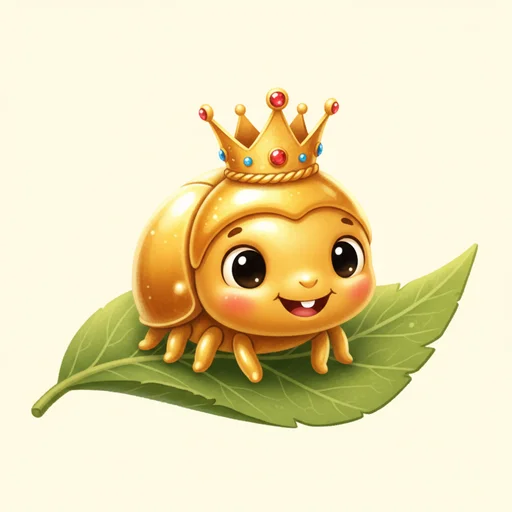
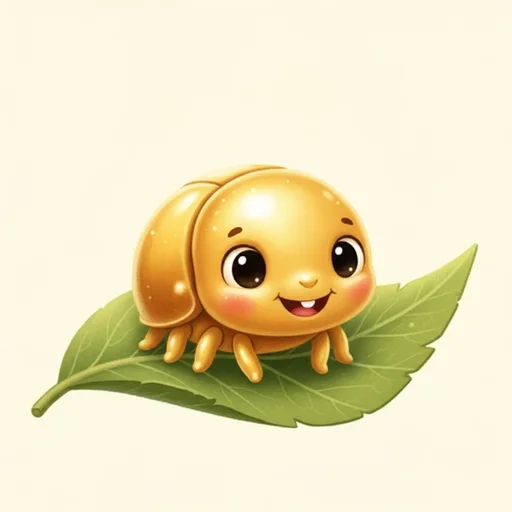
Friends cleanup: rename kraken to Squirt, remove Goldie's crown, drop Nimbus's scenery
Squirt avoids clashing with Bubbles the fish pet now that friends may become pets.
Goldie and Nimbus were edited from their existing art so they keep their look.
Re-recorded the pirate-ship friend voice line with the new name.

Claude-Session: https://claude.ai/code/session_01CUU7H22cA4EA7996G5hEr7

Changed region(s): [[0.3125, 0.1562, 0.75, 0.5312]]

diff --git a/src/data/puzzles.ts b/src/data/puzzles.ts
@@ -203,7 +203,7 @@ export const PUZZLES: Puzzle[] = [
       'One curling vine racetrack winds through every cell, from the top-left down to the bottom-right finish line of pebbles.',
       'Dewdrops, petals and pollen float across cell edges.',
     ],
-    friend: { name: 'Goldie the Golden Beetle', emoji: '🪲', image: '/puzzles/friends/bug-garden.webp', subject: 'a shiny golden beetle wearing a tiny crown, sitting on a leaf' },
+    friend: { name: 'Goldie the Golden Beetle', emoji: '🪲', image: '/puzzles/friends/bug-garden.webp', subject: 'a shiny golden beetle sitting on a leaf' },
     pieces: [
       { name: 'Bumble Ben', subject: 'a fuzzy bumblebee waving a checkered flag to start the race', emoji: '🐝' },
       { name: 'Sunny Sunflower', subject: 'a giant sunflower with a happy face leaning in to watch', emoji: '🌻' },
@@ -281,7 +281,7 @@ export const PUZZLES: Puzzle[] = [
       'Tall masts and billowing sails fill the top; the treasure island with one palm tree is small and far away in one top corner.',
       'Ropes, the rigging net, a flag streaming in the wind and the spyglass\'s line of sight cross cell edges to tie neighbours together.',
     ],
-    friend: { name: 'Bubbles the Baby Kraken', emoji: '🦑', image: '/puzzles/friends/pirate-ship.webp', subject: 'a tiny friendly baby kraken, coral pink with big shiny eyes, wearing a little captain\'s hat and blowing bubbles' },
+    friend: { name: 'Squirt the Baby Kraken', emoji: '🦑', image: '/puzzles/friends/pirate-ship.webp', subject: 'a tiny friendly baby kraken, coral pink with big shiny eyes, wearing a little captain\'s hat and blowing bubbles' },
     pieces: [
       { name: 'Polly the Parrot', subject: 'a green parrot in a tiny bandana swooping down from the crow\'s nest, squawking happily', emoji: '🦜' },
       { name: 'The Lookout', subject: 'a raccoon in the crow\'s nest peering through a long brass spyglass toward the island', emoji: '🔭' },
